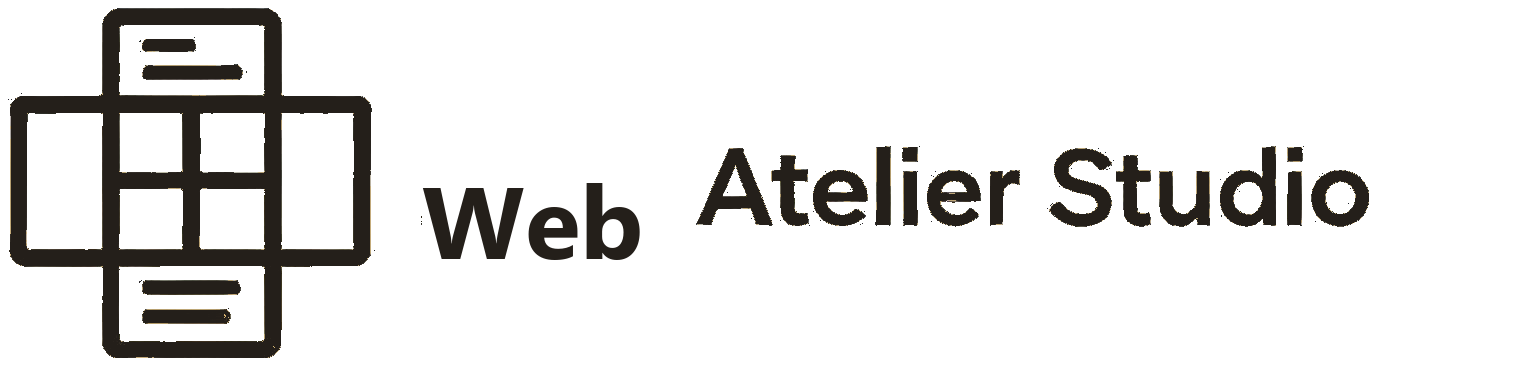
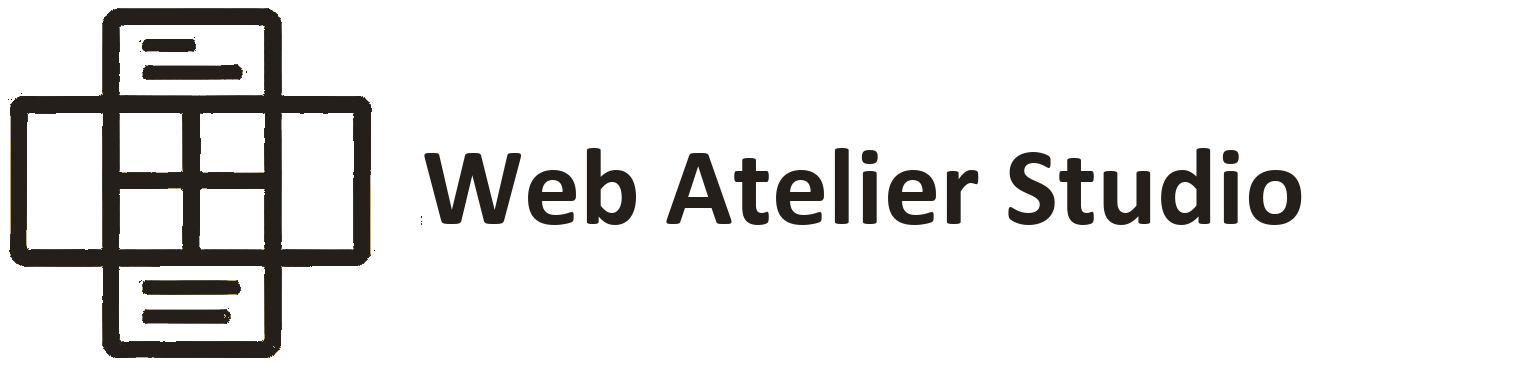
Dovršiti SEO audit, GA4 i kontakt podešavanja.

Changed region(s): [[0.2759, 0.3918, 0.9198, 0.7233]]

diff --git a/blog/pitanja-pre-izrade-web-sajta.html b/blog/pitanja-pre-izrade-web-sajta.html
@@ -5,6 +5,24 @@
   <meta name="viewport" content="width=device-width, initial-scale=1.0" />
   <title>Pitanja pre izrade web sajta | Web Atelier Studio</title>
   <meta name="description" content="Kako izabrati pravog saradnika za izradu web sajta? Na šta obratiti pažnju pre potpisivanja ugovora i zašto je pažljiv odabir ključan." />
+  <meta name="robots" content="index, follow" />
+  <link rel="canonical" href="https://web-atelier-studio.vercel.app/blog/pitanja-pre-izrade-web-sajta.html" />
+  <meta property="og:locale" content="sr_RS" />
+  <meta property="og:type" content="article" />
+  <meta property="og:title" content="Pitanja pre izrade web sajta | Web Atelier Studio" />
+  <meta property="og:description" content="Kako izabrati pravog saradnika za izradu web sajta? Na šta obratiti pažnju pre potpisivanja ugovora i zašto je pažljiv odabir ključan." />
+  <meta property="og:url" content="https://web-atelier-studio.vercel.app/blog/pitanja-pre-izrade-web-sajta.html" />
+  <meta property="og:image" content="https://web-atelier-studio.vercel.app/assets/img/web-atelier-studio-square.png" />
+  <meta name="twitter:card" content="summary_large_image" />
+  <!-- Google tag (gtag.js) -->
+  <script async src="https://www.googletagmanager.com/gtag/js?id=G-FBLSVCCFHM"></script>
+  <script>
+    window.dataLayer = window.dataLayer || [];
+    function gtag(){dataLayer.push(arguments);}
+    gtag("js", new Date());
+
+    gtag("config", "G-FBLSVCCFHM");
+  </script>
 
   <link rel="preconnect" href="https://fonts.googleapis.com" />
   <link rel="preconnect" href="https://fonts.gstatic.com" crossorigin />
@@ -19,6 +37,29 @@
       }
     })();
   </script>
+  <script type="application/ld+json">
+    {
+      "@context": "https://schema.org",
+      "@type": "Article",
+      "headline": "Pitanja pre izrade web sajta",
+      "description": "Kako izabrati pravog saradnika za izradu web sajta? Na šta obratiti pažnju pre potpisivanja ugovora i zašto je pažljiv odabir ključan.",
+      "url": "https://web-atelier-studio.vercel.app/blog/pitanja-pre-izrade-web-sajta.html",
+      "image": "https://web-atelier-studio.vercel.app/assets/img/web-atelier-studio-square.png",
+      "author": {
+        "@type": "Person",
+        "name": "Ivan Mićić"
+      },
+      "publisher": {
+        "@type": "Organization",
+        "name": "Web Atelier Studio",
+        "logo": {
+          "@type": "ImageObject",
+          "url": "https://web-atelier-studio.vercel.app/assets/img/web-atelier-studio-square.png"
+        }
+      },
+      "mainEntityOfPage": "https://web-atelier-studio.vercel.app/blog/pitanja-pre-izrade-web-sajta.html"
+    }
+  </script>
 </head>
 <body>
 
@@ -26,8 +67,8 @@
     <div class="container header__inner">
       <a href="../index.html#hero" class="logo" aria-label="Web Atelier Studio">
         <span class="logo__mark logo__mark--brand" aria-hidden="true">
-          <img src="../assets/img/web-atelier-studio.png?v=3" alt="Web Atelier Studio" class="logo__img logo__img--dark" />
-          <img src="../assets/img/web-atelier-studio-light.png?v=2" alt="" class="logo__img logo__img--light" />
+          <img src="../assets/img/web-atelier-studio.png?v=4" alt="Web Atelier Studio" class="logo__img logo__img--dark" width="1533" height="365" decoding="async" />
+          <img src="../assets/img/web-atelier-studio-light.png?v=3" alt="" class="logo__img logo__img--light" width="1533" height="365" decoding="async" />
         </span>
       </a>
 
@@ -116,8 +157,9 @@
 
   <footer class="footer">
     <div class="container footer__inner">
-      <span class="logo__mark" aria-hidden="true">
-        <img src="../assets/img/logo-1.jpg" alt="" class="logo__img" loading="lazy" decoding="async" />
+      <span class="logo__mark logo__mark--brand" aria-hidden="true">
+        <img src="../assets/img/web-atelier-studio.png?v=4" alt="" class="logo__img logo__img--dark" width="1533" height="365" loading="lazy" decoding="async" />
+        <img src="../assets/img/web-atelier-studio-light.png?v=3" alt="" class="logo__img logo__img--light" width="1533" height="365" loading="lazy" decoding="async" />
       </span>
       <p class="footer__copy">&copy; <span id="year"></span> <span data-i18n="footer.copy">Web Atelier Studio &middot; Ivan Mićić</span>. <span data-i18n="footer.rights">Sva prava zadržana.</span></p>
     </div>

diff --git a/blog/zasto-je-web-sajt-vazan.html b/blog/zasto-je-web-sajt-vazan.html
@@ -5,6 +5,24 @@
   <meta name="viewport" content="width=device-width, initial-scale=1.0" />
   <title>Zašto je web sajt važan za vaš biznis? | Web Atelier Studio</title>
   <meta name="description" content="Bez web sajta danas propuštate klijente, poverenje i rast. Saznajte zašto je sajt neophodan za svaki ozbiljan biznis u 2026. godini." />
+  <meta name="robots" content="index, follow" />
+  <link rel="canonical" href="https://web-atelier-studio.vercel.app/blog/zasto-je-web-sajt-vazan.html" />
+  <meta property="og:locale" content="sr_RS" />
+  <meta property="og:type" content="article" />
+  <meta property="og:title" content="Zašto je web sajt važan za vaš biznis? | Web Atelier Studio" />
+  <meta property="og:description" content="Bez web sajta danas propuštate klijente, poverenje i rast. Saznajte zašto je sajt neophodan za svaki ozbiljan biznis u 2026. godini." />
+  <meta property="og:url" content="https://web-atelier-studio.vercel.app/blog/zasto-je-web-sajt-vazan.html" />
+  <meta property="og:image" content="https://web-atelier-studio.vercel.app/assets/img/web-atelier-studio-square.png" />
+  <meta name="twitter:card" content="summary_large_image" />
+  <!-- Google tag (gtag.js) -->
+  <script async src="https://www.googletagmanager.com/gtag/js?id=G-FBLSVCCFHM"></script>
+  <script>
+    window.dataLayer = window.dataLayer || [];
+    function gtag(){dataLayer.push(arguments);}
+    gtag("js", new Date());
+
+    gtag("config", "G-FBLSVCCFHM");
+  </script>
 
   <link rel="preconnect" href="https://fonts.googleapis.com" />
   <link rel="preconnect" href="https://fonts.gstatic.com" crossorigin />
@@ -19,6 +37,29 @@
       }
     })();
   </script>
+  <script type="application/ld+json">
+    {
+      "@context": "https://schema.org",
+      "@type": "Article",
+      "headline": "Zašto je web sajt važan za vaš biznis?",
+      "description": "Bez web sajta danas propuštate klijente, poverenje i rast. Saznajte zašto je sajt neophodan za svaki ozbiljan biznis u 2026. godini.",
+      "url": "https://web-atelier-studio.vercel.app/blog/zasto-je-web-sajt-vazan.html",
+      "image": "https://web-atelier-studio.vercel.app/assets/img/web-atelier-studio-square.png",
+      "author": {
+        "@type": "Person",
+        "name": "Ivan Mićić"
+      },
+      "publisher": {
+        "@type": "Organization",
+        "name": "Web Atelier Studio",
+        "logo": {
+          "@type": "ImageObject",
+          "url": "https://web-atelier-studio.vercel.app/assets/img/web-atelier-studio-square.png"
+        }
+      },
+      "mainEntityOfPage": "https://web-atelier-studio.vercel.app/blog/zasto-je-web-sajt-vazan.html"
+    }
+  </script>
 </head>
 <body>
 
@@ -26,8 +67,8 @@
     <div class="container header__inner">
       <a href="../index.html#hero" class="logo" aria-label="Web Atelier Studio">
         <span class="logo__mark logo__mark--brand" aria-hidden="true">
-          <img src="../assets/img/web-atelier-studio.png?v=3" alt="Web Atelier Studio" class="logo__img logo__img--dark" />
-          <img src="../assets/img/web-atelier-studio-light.png?v=2" alt="" class="logo__img logo__img--light" />
+          <img src="../assets/img/web-atelier-studio.png?v=4" alt="Web Atelier Studio" class="logo__img logo__img--dark" width="1533" height="365" decoding="async" />
+          <img src="../assets/img/web-atelier-studio-light.png?v=3" alt="" class="logo__img logo__img--light" width="1533" height="365" decoding="async" />
         </span>
       </a>
 
@@ -104,8 +145,9 @@
 
   <footer class="footer">
     <div class="container footer__inner">
-      <span class="logo__mark" aria-hidden="true">
-        <img src="../assets/img/logo-1.jpg" alt="" class="logo__img" loading="lazy" decoding="async" />
+      <span class="logo__mark logo__mark--brand" aria-hidden="true">
+        <img src="../assets/img/web-atelier-studio.png?v=4" alt="" class="logo__img logo__img--dark" width="1533" height="365" loading="lazy" decoding="async" />
+        <img src="../assets/img/web-atelier-studio-light.png?v=3" alt="" class="logo__img logo__img--light" width="1533" height="365" loading="lazy" decoding="async" />
       </span>
       <p class="footer__copy">&copy; <span id="year"></span> <span data-i18n="footer.copy">Web Atelier Studio &middot; Ivan Mićić</span>. <span data-i18n="footer.rights">Sva prava zadržana.</span></p>
     </div>

diff --git a/index.html b/index.html
@@ -5,6 +5,24 @@
   <meta name="viewport" content="width=device-width, initial-scale=1.0" />
   <title>Web Atelier Studio | Ivan Mićić — izrada web sajtova</title>
   <meta name="description" content="Web Atelier Studio — Ivan Mićić. Izrada web sajtova za male biznise u Srbiji: saloni, ordinacije, lokalne firme. Profesionalna i moderna rešenja." />
+  <meta name="robots" content="index, follow" />
+  <link rel="canonical" href="https://web-atelier-studio.vercel.app/" />
+  <meta property="og:locale" content="sr_RS" />
+  <meta property="og:type" content="website" />
+  <meta property="og:title" content="Web Atelier Studio | Ivan Mićić — izrada web sajtova" />
+  <meta property="og:description" content="Izrada web sajtova za male biznise u Srbiji: saloni, ordinacije, lokalne firme. Profesionalna i moderna rešenja." />
+  <meta property="og:url" content="https://web-atelier-studio.vercel.app/" />
+  <meta property="og:image" content="https://web-atelier-studio.vercel.app/assets/img/web-atelier-studio-square.png" />
+  <meta name="twitter:card" content="summary_large_image" />
+  <!-- Google tag (gtag.js) -->
+  <script async src="https://www.googletagmanager.com/gtag/js?id=G-FBLSVCCFHM"></script>
+  <script>
+    window.dataLayer = window.dataLayer || [];
+    function gtag(){dataLayer.push(arguments);}
+    gtag("js", new Date());
+
+    gtag("config", "G-FBLSVCCFHM");
+  </script>
 
   <link rel="preconnect" href="https://fonts.googleapis.com" />
   <link rel="preconnect" href="https://fonts.gstatic.com" crossorigin />
@@ -25,6 +43,23 @@
       }
     })();
   </script>
+  <script type="application/ld+json">
+    {
+      "@context": "https://schema.org",
+      "@type": "ProfessionalService",
+      "name": "Web Atelier Studio",
+      "url": "https://web-atelier-studio.vercel.app/",
+      "image": "https://web-atelier-studio.vercel.app/assets/img/web-atelier-studio-square.png",
+      "founder": {
+        "@type": "Person",
+        "name": "Ivan Mićić"
+      },
+      "areaServed": "RS",
+      "description": "Izrada web sajtova za male biznise u Srbiji: saloni, ordinacije i lokalne firme.",
+      "email": "[email redacted]",
+      "telephone": "[phone redacted]"
+    }
+  </script>
 </head>
 <body>
 
@@ -33,8 +68,8 @@
     <div class="container header__inner">
       <a href="#hero" class="logo" aria-label="Web Atelier Studio">
         <span class="logo__mark logo__mark--brand" aria-hidden="true">
-          <img src="assets/img/web-atelier-studio.png?v=3" alt="Web Atelier Studio" class="logo__img logo__img--dark" width="360" height="58" fetchpriority="high" decoding="async" />
-          <img src="assets/img/web-atelier-studio-light.png?v=2" alt="" class="logo__img logo__img--light" width="360" height="58" decoding="async" />
+          <img src="assets/img/web-atelier-studio.png?v=4" alt="Web Atelier Studio" class="logo__img logo__img--dark" width="1533" height="365" fetchpriority="high" decoding="async" />
+          <img src="assets/img/web-atelier-studio-light.png?v=3" alt="" class="logo__img logo__img--light" width="1533" height="365" decoding="async" />
         </span>
       </a>
 
@@ -139,7 +174,7 @@
     <div class="container about">
       <div class="about__media">
         <div class="about__photo">
-          <img src="assets/img/web-atelier-studio-square.png" alt="Web Atelier Studio" class="about__avatar" loading="lazy" decoding="async" />
+          <img src="assets/img/web-atelier-studio-square.png" alt="Web Atelier Studio" class="about__avatar" width="2048" height="2048" loading="lazy" decoding="async" />
         </div>
       </div>
       <div class="about__content">
@@ -320,11 +355,11 @@
 
       <div class="contact__grid">
         <div class="contact__info">
-          <a href="mailto:[email redacted]" class="contact__item">
+          <a href="mailto:[email redacted]" class="contact__item">
             <span class="contact__icon" aria-hidden="true"><svg class="line-icon" viewBox="0 0 24 24"><rect x="3" y="5" width="18" height="14" rx="2"/><path d="m3 7 9 6 9-6"/></svg></span>
             <span>
               <small data-i18n="contact.emailLabel">Email</small>
-              [email redacted]
+              [email redacted]
             </span>
           </a>
           <a href="tel:[phone redacted]" class="contact__item">
@@ -360,8 +395,8 @@
   <footer class="footer">
     <div class="container footer__inner">
       <span class="logo__mark logo__mark--brand" aria-hidden="true">
-        <img src="assets/img/web-atelier-studio.png?v=3" alt="" class="logo__img logo__img--dark" loading="lazy" decoding="async" />
-        <img src="assets/img/web-atelier-studio-light.png?v=2" alt="" class="logo__img logo__img--light" loading="lazy" decoding="async" />
+        <img src="assets/img/web-atelier-studio.png?v=4" alt="" class="logo__img logo__img--dark" width="1533" height="365" loading="lazy" decoding="async" />
+        <img src="assets/img/web-atelier-studio-light.png?v=3" alt="" class="logo__img logo__img--light" width="1533" height="365" loading="lazy" decoding="async" />
       </span>
       <p class="footer__copy">&copy; <span id="year"></span> <span data-i18n="footer.copy">Web Atelier Studio &middot; Ivan Mićić</span>. <span data-i18n="footer.rights">Sva prava zadržana.</span></p>
     </div>

diff --git a/js/main.js b/js/main.js
@@ -98,7 +98,7 @@ document.addEventListener("DOMContentLoaded", () => {
       // Otvara podrazumevani email klijent sa popunjenom porukom.
       const subject = encodeURIComponent(`Poruka sa sajta — ${name}`);
       const body = encodeURIComponent(`${message}\n\n— ${name}\n${email}`);
-      window.location.href = `mailto:[email redacted]?subject=${subject}&body=${body}`;
+      window.location.href = `mailto:[email redacted]?subject=${subject}&body=${body}`;
 
       status.textContent = t("form.success");
       status.classList.add("is-ok");

diff --git a/tools/rebrand-logos.py b/tools/rebrand-logos.py
@@ -1,50 +1,55 @@
-"""Replace NoCode with Web in horizontal logo PNGs."""
+"""Generate horizontal Web Atelier Studio logo PNGs."""
 from pathlib import Path
 
 from PIL import Image, ImageDraw, ImageFont
 
 IMG_DIR = Path(__file__).resolve().parent.parent / "assets" / "img"
 TEXT_START = 422
-ATELIER_X = 828
-FONT_SIZE = 102
-TEXT_Y = 148
+FONT_SIZE = 112
+TEXT_Y = 140
+BRAND_TEXT = "Web Atelier Studio"
 
 
-def load_font(size: int):
+def load_font():
     for path in (
-        r"C:\Windows\Fonts\segoeuib.ttf",
+        r"C:\Windows\Fonts\calibrib.ttf",
         r"C:\Windows\Fonts\arialbd.ttf",
     ):
         try:
-            return ImageFont.truetype(path, size)
+            return ImageFont.truetype(path, FONT_SIZE)
         except OSError:
             continue
     return ImageFont.load_default()
 
 
-def text_width(font, text: str) -> int:
-    draw = ImageDraw.Draw(Image.new("RGBA", (1, 1)))
-    bbox = draw.textbbox((0, 0), text, font=font)
-    return bbox[2] - bbox[0]
+def extract_icon(src: Image.Image, *, is_light: bool) -> Image.Image:
+    icon = src.crop((0, 0, TEXT_START, src.height)).copy()
+    if is_light:
+        return icon
+
+    pixels = icon.load()
+    for y in range(icon.height):
+        for x in range(icon.width):
+            r, g, b, a = pixels[x, y]
+            if a == 0:
+                continue
+            if r < 90 and g < 90 and b < 90:
+                pixels[x, y] = (r, g, b, 0)
+    return icon
 
 
 def rebrand(src_name: str, dst_name: str, *, bg: tuple, fill: tuple):
     src = Image.open(IMG_DIR / src_name).convert("RGBA")
     w, h = src.size
-    icon = src.crop((0, 0, TEXT_START, h))
-    tail = src.crop((ATELIER_X, 0, w, h))
-
-    font = load_font(FONT_SIZE)
-    web_x = TEXT_START + text_width(font, "Web ")
+    icon = extract_icon(src, is_light="light" in src_name)
 
     out = Image.new("RGBA", (w, h), bg)
     out.paste(icon, (0, 0), icon)
-    out.paste(tail, (web_x, 0), tail)
 
     draw = ImageDraw.Draw(out)
-    draw.text((TEXT_START, TEXT_Y), "Web", fill=fill, font=font)
+    draw.text((TEXT_START, TEXT_Y), BRAND_TEXT, fill=fill, font=load_font())
     out.save(IMG_DIR / dst_name, optimize=True)
-    print(f"OK {dst_name} tail_x={web_x}")
+    print(f"OK {dst_name}")
 
 
 def main():